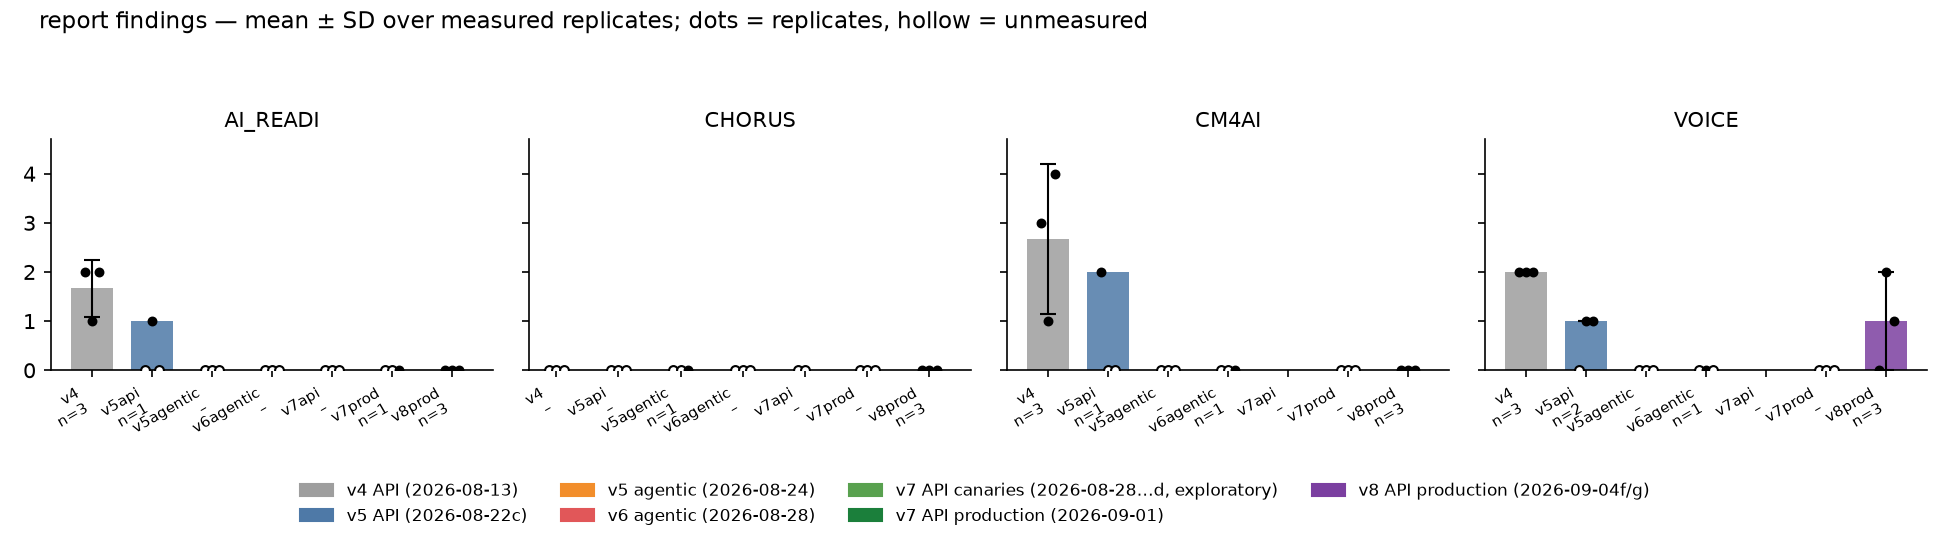
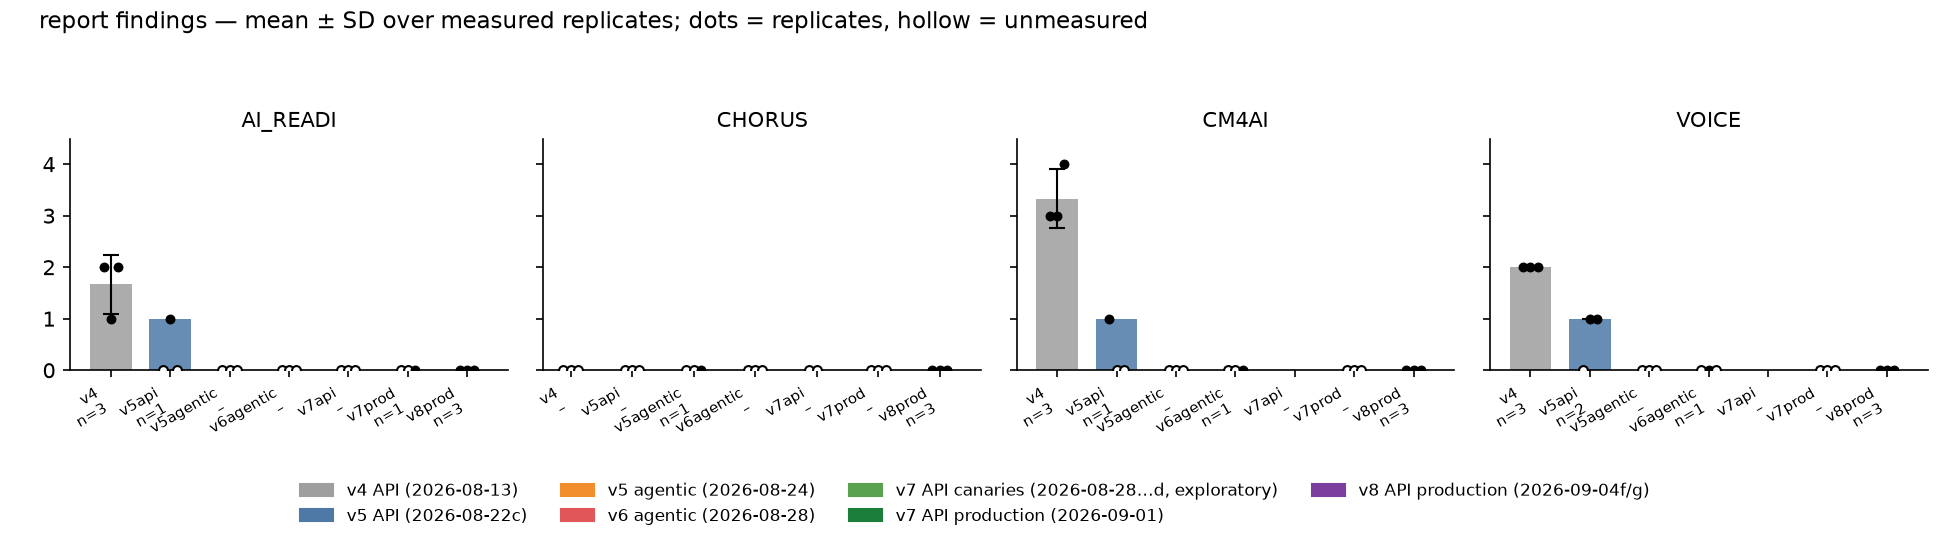
#902 #831 receipt coverage is an arm number with its denominator, and the wrong-chunk rate is the marker protocol's
`scripts/arm_comparison.py` printed the count of leaves without a receipt
and no denominator, which compares nothing: the receiptable denominator
runs from 142 to 508 leaves inside one arm. It now carries the
denominator, the #807 never/added split and the snippet total as rows of
their own, and writes a pooled per-arm section — pooled, not a mean of
per-record rates, which would weight a 142-leaf record like a 508-leaf
one.

Measured, over the registered arms:

| arm | receiptable | with a receipt | never receipted | added after | not in the chunk cited |
|---|---|---|---|---|---|
| v6 agentic (12) | 5,846 | 48.2% | – | – | 0 of 3,400 |
| v7 API canaries (5) | 1,762 | 34.4% | 48.4% | 17.1% | 33 of 859 = 3.8% |
| v7 API production (12) | 3,905 | 35.5% | 56.8% | 7.8% | 132 of 1,733 = 7.6% |
| v8 API production (12) | 4,094 | 56.4% | 42.4% | 1.2% | 153 of 2,556 = 6.0% |

So the v7 degree limit eight of twelve production reviewers read as a
rule-15 violation (#902) is real at arm level, and v8 recovers past v6.
The gap is overwhelmingly never-receipted rather than added by
reconciliation or repair after the receipt, which is the half #742 says
has no receipt route at all — the reading #831 asks for and the opposite
of the mixture hypothesis in its body.

Attribution (#831, #873): the rate is 0 of 3,400 snippets on the v6
agentic arm, which names chunk ids from the manifest it read, against
3.8%, 7.6% and 6.0% on the three API arms, which infer them from `[cNNN]`
[…]

diff --git a/scripts/arm_comparison.py b/scripts/arm_comparison.py
@@ -162,13 +162,35 @@ METRICS: dict[str, tuple[str, str, bool, str]] = {
                    "receipts (#708): mismatched + unchecked snippets; same caveat"),
     "wrongchunk": ("snippets not in the chunk cited", "record", True,
                    "receipts (#763): verbatim in the bundle but not in the chunk cited — "
-                   "attribution precision, reported not gated; 3.8% on the five v7 API canaries (33/859)"),
+                   "attribution precision, reported not gated. Read it against `snippets "
+                   "checked` on the row below, never as a bare count; the pooled rates "
+                   "are in the receipt-coverage section"),
+    "snippets": ("snippets checked", "record", False,
+                 "receipts (#708): the denominator for `snippets not in the chunk cited` "
+                 "and for unverified — the receipt's own snippet count, which is a "
+                 "property of how much the model quoted, not of the record"),
     "leaves": ("populated leaves (full record)", "record", False,
                "count of populated leaf values in the full record (receipts.populated_leaves); "
                "informational — the v6 plan's prediction 5 is that it does not fall"),
     "noreceipt": ("slots without a receipt", "record", True,
                   "receipts (#708): receiptable populated leaves with no receipt; exempt "
-                  "slots (runner-set, minted, commentary) are outside the denominator"),
+                  "slots (runner-set, minted, commentary) are outside the denominator. "
+                  "`receiptable` on the row below is that denominator, so coverage degree "
+                  "is readable here rather than inferable (#902)"),
+    "receiptable": ("receiptable slots (denominator)", "record", False,
+                    "receipts (#708): populated leaves that are not exempt — the "
+                    "denominator every receipt count on these rows shares. It varies "
+                    "two- to three-fold between records of one arm, so a bare "
+                    "without-a-receipt count compares nothing (#902)"),
+    "neverreceipted": ("of those, never receipted", "record", True,
+                       "receipts (#807): the receiptless leaf resolved in the phase-1 "
+                       "snapshot, so the model never receipted it. Needs that snapshot — "
+                       "the API path writes one and the agentic path does not, so an "
+                       "agentic arm is – here, not 0 (#899)"),
+    "addedafter": ("of those, added after the receipt", "record", True,
+                   "receipts (#807): the receiptless leaf is absent from the phase-1 "
+                   "snapshot, so reconciliation or repair added it after the receipt was "
+                   "written and no receipt route existed (#742). Same snapshot caveat"),
     "gc": ("GC label variants (reported)", "live", True,
            "reported-only; counted against the manifest naming declaration decided "
            "2026-08-22, so anachronistic for the v4 arm and same-day for 22c. For VOICE "
@@ -182,6 +204,51 @@ EXCLUDED_INVALID: dict[tuple[str, str], None] = {}   # (label, project) skipped 
 
 def load(path: Path) -> dict[str, Any]:
     return yaml.safe_load(path.read_text(encoding="utf-8")) or {}
+
+
+RECEIPT_KEYS = ("unreviewed", "unverified", "wrongchunk", "snippets", "noreceipt",
+                "receiptable", "withreceipt", "neverreceipted", "addedafter")
+
+
+def receipt_metrics(rcp: dict[str, Any]) -> dict[str, Any]:
+    """The receipt row values for one record, or all None where the receipt
+    was not checked — an unchecked receipt is not a measurement of zero."""
+    if not rcp.get("checked"):
+        return {k: None for k in RECEIPT_KEYS}
+    from data_sheets_schema.canary import receipt_floors
+    floors = receipt_floors(rcp)
+    sn = rcp.get("snippets") or {}
+    sl = rcp.get("slots") or {}
+    receiptable = sl.get("receiptable")
+    with_receipt = sl.get("with_receipt")
+    # The stored `without_receipt` list is capped at 50 entries with the
+    # remainder in `without_receipt_truncated`; #831's body divided by the
+    # capped list and reported coverage at twice its real level. The two
+    # integers are the definition, so subtract them where the block carries
+    # them (every block on disk today, and they agree with the list
+    # arithmetic on all of them) and keep the list only for a block that
+    # predates the counters.
+    if receiptable is not None and with_receipt is not None:
+        noreceipt = int(receiptable) - int(with_receipt)
+    else:
+        noreceipt = (len(sl.get("without_receipt") or [])
+                     + int(sl.get("without_receipt_truncated") or 0))
+    # `never_receipted`/`added_after_receipt` are None, not 0, on a run with
+    # no phase-1 snapshot to resolve the path against (#899) — the agentic
+    # path writes none. A 0 would read as "reconciliation added nothing after
+    # the receipt", which is not what an absent snapshot says.
+    never = sl.get("never_receipted")
+    added = sl.get("added_after_receipt")
+    return {"unreviewed": floors["chunks unreviewed"],
+            "unverified": floors["snippets unverified"],
+            "wrongchunk": int(sn.get("adjacent") or 0) + int(sn.get("elsewhere") or 0)
+            + int(sn.get("spans_boundary") or 0),
+            "snippets": int(sn.get("total") or 0),
+            "noreceipt": noreceipt,
+            "receiptable": int(receiptable) if receiptable is not None else None,
+            "withreceipt": int(with_receipt) if with_receipt is not None else None,
+            "neverreceipted": int(never) if never is not None else None,
+            "addedafter": int(added) if added is not None else None}
 
 
 def run_metrics(label: str, project: str) -> dict[str, Any] | None:
@@ -214,18 +281,7 @@ def run_metrics(label: str, project: str) -> dict[str, Any] | None:
                 return sum(v.values()) if isinstance(v, dict) else int(v)
         return None
 
-    rcp = rec.get("receipts") or {}
-    if rcp.get("checked"):
-        from data_sheets_schema.canary import receipt_floors
-        floors = receipt_floors(rcp)
-        sn = rcp.get("snippets") or {}
-        receipt_vals = {"unreviewed": floors["chunks unreviewed"],
-                        "unverified": floors["snippets unverified"],
-                        "wrongchunk": int(sn.get("adjacent") or 0) + int(sn.get("elsewhere") or 0) + int(sn.get("spans_boundary") or 0),
-                        "noreceipt": len((rcp.get("slots") or {}).get("without_receipt") or [])
-                        + int((rcp.get("slots") or {}).get("without_receipt_truncated") or 0)}
-    else:
-        receipt_vals = {"unreviewed": None, "unverified": None, "wrongchunk": None, "noreceipt": None}
+    receipt_vals = receipt_metrics(rec.get("receipts") or {})
     from data_sheets_schema.receipts import populated_leaves
     leaves = len(populated_leaves(load(full)))
     return {
@@ -342,6 +398,74 @@ def worst(reps: list[dict[str, Any]], metric: str) -> str:
     return str(w)
 
 
+def pooled_receipts(reps: list[dict[str, Any]]) -> dict[str, Any]:
+    """Receipt totals for an arm, pooled over its records.
+
+    Pooled, not a mean of per-record rates: the receiptable denominator varies
+    two- to three-fold within one arm (#902), and a mean of ratios would weight
+    a 142-slot record like a 508-slot one. A key is summed only over the
+    records that carry it, and stays None when none does — the never/added
+    split needs a phase-1 snapshot the agentic path never wrote (#899), and 0
+    there would assert something the arm did not measure.
+    """
+    out: dict[str, Any] = {"records": sum(1 for r in reps if r.get("receiptable") is not None)}
+    for key in ("receiptable", "withreceipt", "neverreceipted", "addedafter",
+                "snippets", "wrongchunk", "unverified", "unreviewed"):
+        vals = [r[key] for r in reps if r.get(key) is not None]
+        out[key] = sum(vals) if vals else None
+    return out
+
+
+def _rate(num: Any, den: Any) -> str:
+    """`n/d = p%`, or `–` where either side was not measured. A zero
+    denominator is not 0% — it is nothing to divide."""
+    if num is None or not den:
+        return "–"
+    return f"{num}/{den} = {100 * num / den:.1f}%"
+
+
+def receipt_section(data) -> list[str]:
+    lines = ["## Receipt coverage and attribution, pooled per arm (#831, #902)", "",
+             "| arm | records | receiptable slots | with a receipt | never receipted | "
+             "added after the receipt | snippets | not in the chunk cited |",
+             "|---|---|---|---|---|---|---|---|"]
+    for key, disp, _pfx, _rt, _role in ARMS:
+        reps = [r for p in PROJECTS for r in data[key][p]]
+        t = pooled_receipts(reps)
+        if not t["records"]:
+            continue
+        lines.append(
+            f"| {disp} | {t['records']} | {t['receiptable']} | "
+            f"{_rate(t['withreceipt'], t['receiptable'])} | "
+            f"{_rate(t['neverreceipted'], t['receiptable'])} | "
+            f"{_rate(t['addedafter'], t['receiptable'])} | "
+            f"{t['snippets'] if t['snippets'] is not None else '–'} | "
+            f"{_rate(t['wrongchunk'], t['snippets'])} |")
+    lines += ["",
+              "Coverage **degree**, which the twelve v7 production reviewers read as a "
+              "rule-15 violation on eight records and which is a property of the arm "
+              "rather than of any one record (#902). The denominator is receiptable "
+              "populated leaves: an entry receipt covers many leaves at once, so this is "
+              "the strict leaf reading, and the exempt slots (runner-set, minted on an "
+              "identifier the record carries, commentary) are outside it. Zero "
+              "`not_in_bundle` verdicts were returned anywhere on the v7 production arm, "
+              "so what these rows measure is how much of a record the receipt reaches, "
+              "not whether its values are supported.", "",
+              "The never/added split (#807) says which half of the gap the protocol could "
+              "have closed: a leaf that resolves in the phase-1 snapshot was there to be "
+              "receipted and was not, while one the snapshot does not carry was added by "
+              "reconciliation or repair, which have no receipt route at all (#742). It "
+              "needs that snapshot, so an agentic arm shows `–` and not 0.", "",
+              "`not in the chunk cited` is attribution precision, reported and never "
+              "gated (#763): the snippet is verbatim in the bundle, in a chunk other than "
+              "the one the receipt names. It is an API-path number — the agentic protocol "
+              "names chunk ids from the manifest it read, the API path infers them from "
+              "`[cNNN]` marker lines in the cached bundle, and the marker side was checked "
+              "byte-for-byte on the CM4AI canary and found correct (#873), so what the "
+              "rate measures is the model mis-citing, usually one chunk early.", ""]
+    return lines
+
+
 def write_markdown(data, scores) -> None:
     lines = ["# Cross-arm comparison (regenerated)", "",
              f"Generated by `scripts/arm_comparison.py` from the provenance records under "
@@ -391,6 +515,8 @@ def write_markdown(data, scores) -> None:
               "better summary. ᵘ = unmeasured — the report-claims checker parsed zero "
               "claims (#684); unmeasured values are excluded from the mean and n, and a "
               "cell with no measured replicate shows only its raw values.", ""]
+
+    lines += receipt_section(data)
 
     lines += ["## Per-metric caveats (attached, not footnoted elsewhere)", ""]
     for mk, (disp, src, _hiw, cav) in METRICS.items():

diff --git a/notes/arm_comparison.md b/notes/arm_comparison.md
@@ -28,9 +28,9 @@ Arms: **v4 API (2026-08-13)** — `2026-08-13_claude-opus-5-api-generic-v4_rep{1
 | undeclared prefixes | CHORUS | 76.0 ± 131.6 [228,0,0] worst 228 | 0.0 ± 0.0 [0,0,0] | 0.0 ± 0.0 [0,0,0] | 0.0 ± 0.0 [0,0,0] | 0.0 ± 0.0 [0,0] | 0.0 ± 0.0 [0,0,0] | 0.0 ± 0.0 [0,0,0] |
 | undeclared prefixes | CM4AI | 42.3 ± 43.0 [0,86,41] worst 86 | 0.0 ± 0.0 [0,0,0] | 0.0 ± 0.0 [0,0,0] | 0.0 ± 0.0 [0,0,0] | – | 0.0 ± 0.0 [0,0,0] | 0.0 ± 0.0 [0,0,0] |
 | undeclared prefixes | VOICE | 0.0 ± 0.0 [0,0,0] worst 0 | 0.0 ± 0.0 [0,0,0] | 0.0 ± 0.0 [0,0,0] | 0.0 ± 0.0 [0,0,0] | – | 0.0 ± 0.0 [0,0,0] | 0.0 ± 0.0 [0,0,0] |
-| British spellings | AI_READI | 176.7 ± 46.6 [225,132,173] worst 225 | 25.3 ± 22.5 [33,43,0] | 1.3 ± 2.3 [4,0,0] | 2.7 ± 3.8 [0,1,7] | 32.3 ± 12.0 [33,20,44] | 45.0 ± 7.0 [45,38,52] | 0.0 ± 0.0 [0,0,0] |
+| British spellings | AI_READI | 176.7 ± 46.6 [225,132,173] worst 225 | 25.3 ± 22.5 [33,43,0] | 1.3 ± 2.3 [4,0,0] | 2.7 ± 3.8 [0,1,7] | 32.7 ± 12.5 [33,20,45] | 45.0 ± 7.0 [45,38,52] | 0.0 ± 0.0 [0,0,0] |
 | British spellings | CHORUS | 17.0 ± 5.2 [20,20,11] worst 20 | 0.0 ± 0.0 [0,0,0] | 0.0 ± 0.0 [0,0,0] | 0.0 ± 0.0 [0,0,0] | 0.0 ± 0.0 [0,0] | 0.0 ± 0.0 [0,0,0] | 0.0 ± 0.0 [0,0,0] |
-| British spellings | CM4AI | 35.7 ± 53.1 [97,6,4] worst 97 | 1.3 ± 2.3 [4,0,0] | 1.3 ± 2.3 [0,4,0] | 1.3 ± 2.3 [0,4,0] | – | 0.7 ± 1.2 [0,0,2] | 0.0 ± 0.0 [0,0,0] |
+| British spellings | CM4AI | 35.7 ± 53.1 [97,6,4] worst 97 | 1.3 ± 2.3 [4,0,0] | 1.3 ± 2.3 [0,4,0] | 2.0 ± 2.0 [0,4,2] | – | 0.7 ± 1.2 [0,0,2] | 0.0 ± 0.0 [0,0,0] |
 | British spellings | VOICE | 70.3 ± 18.6 [49,79,83] worst 83 | 2.7 ± 3.1 [2,0,6] | 2.3 ± 2.1 [3,4,0] | 11.7 ± 20.2 [0,35,0] | – | 0.7 ± 1.2 [0,0,2] | 1.3 ± 1.2 [2,0,2] |
 | pair errors | AI_READI | 8.0 ± 2.0 [10,8,6] worst 10 | 8.7 ± 8.3 [2,18,6] | 0.0 ± 0.0 [0,0,0] | 0.0 ± 0.0 [0,0,0] | 0.0 ± 0.0 [0,0,0] | 0.0 ± 0.0 [0,0,0] | 0.0 ± 0.0 [0,0,0] |
 | pair errors | CHORUS | 3.0 ± 3.0 [6,0,3] worst 6 | 1.0 ± 1.0 [1,0,2] | 0.0 ± 0.0 [0,0,0] | 0.0 ± 0.0 [0,0,0] | 0.0 ± 0.0 [0,0] | 0.0 ± 0.0 [0,0,0] | 0.0 ± 0.0 [0,0,0] |
@@ -38,8 +38,8 @@ Arms: **v4 API (2026-08-13)** — `2026-08-13_claude-opus-5-api-generic-v4_rep{1
 | pair errors | VOICE | 6.3 ± 2.5 [9,4,6] worst 9 | 5.7 ± 1.2 [7,5,5] | 0.0 ± 0.0 [0,0,0] | 0.0 ± 0.0 [0,0,0] | – | 0.0 ± 0.0 [0,0,0] | 0.0 ± 0.0 [0,0,0] |
 | report findings | AI_READI | 1.7 ± 0.6 [2,1,2] worst 2 | 1.0 [0ᵘ,1,0ᵘ] (n=1) | – [0ᵘ,0ᵘ,0ᵘ] | – [0ᵘ,0ᵘ,0ᵘ] | – [0ᵘ,0ᵘ,0ᵘ] | 0.0 [0ᵘ,0ᵘ,0] (n=1) | 0.0 ± 0.0 [0,0,0] |
 | report findings | CHORUS | – [0ᵘ,0ᵘ,0ᵘ] | – [0ᵘ,0ᵘ,0ᵘ] | 0.0 [0ᵘ,0ᵘ,0] (n=1) | – [0ᵘ,0ᵘ,0ᵘ] | – [0ᵘ,0ᵘ] | – [0ᵘ,0ᵘ,0ᵘ] | 0.0 ± 0.0 [0,0,0] |
-| report findings | CM4AI | 2.7 ± 1.5 [3,1,4] worst 4 | 2.0 [2,0ᵘ,0ᵘ] (n=1) | – [0ᵘ,0ᵘ,0ᵘ] | 0.0 [0ᵘ,0ᵘ,0] (n=1) | – | – [0ᵘ,0ᵘ,0ᵘ] | 0.0 ± 0.0 [0,0,0] |
-| report findings | VOICE | 2.0 ± 0.0 [2,2,2] worst 2 | 1.0 ± 0.0 [0ᵘ,1,1] (n=2) | – [0ᵘ,0ᵘ,0ᵘ] | 0.0 [0ᵘ,0,0ᵘ] (n=1) | – | – [0ᵘ,0ᵘ,0ᵘ] | 1.0 ± 1.0 [0,2,1] |
+| report findings | CM4AI | 3.3 ± 0.6 [3,3,4] worst 4 | 1.0 [1,0ᵘ,0ᵘ] (n=1) | – [0ᵘ,0ᵘ,0ᵘ] | 0.0 [0ᵘ,0ᵘ,0] (n=1) | – | – [0ᵘ,0ᵘ,0ᵘ] | 0.0 ± 0.0 [0,0,0] |
+| report findings | VOICE | 2.0 ± 0.0 [2,2,2] worst 2 | 1.0 ± 0.0 [0ᵘ,1,1] (n=2) | – [0ᵘ,0ᵘ,0ᵘ] | 0.0 [0ᵘ,0,0ᵘ] (n=1) | – | – [0ᵘ,0ᵘ,0ᵘ] | 0.0 ± 0.0 [0,0,0] |
 | minted fragments (reported) | AI_READI | 14.7 ± 2.1 [17,14,13] worst 17 | 9.0 ± 7.8 [0,13,14] | 10.3 ± 6.7 [16,3,12] | 10.7 ± 2.1 [10,13,9] | 5.7 ± 6.4 [1,3,13] | 4.0 ± 6.9 [0,0,12] | 18.0 ± 4.6 [19,22,13] |
 | minted fragments (reported) | CHORUS | 0.0 ± 0.0 [0,0,0] worst 0 | 0.0 ± 0.0 [0,0,0] | 0.0 ± 0.0 [0,0,0] | 0.0 ± 0.0 [0,0,0] | 0.0 ± 0.0 [0,0] | 0.0 ± 0.0 [0,0,0] | 0.0 ± 0.0 [0,0,0] |
 | minted fragments (reported) | CM4AI | 4.0 ± 6.9 [12,0,0] worst 12 | 13.7 ± 3.2 [15,10,16] | 49.3 ± 6.7 [42,55,51] | 39.0 ± 20.8 [51,15,51] | – | 14.7 ± 4.0 [17,10,17] | 23.3 ± 6.4 [16,26,28] |
@@ -56,20 +56,51 @@ Arms: **v4 API (2026-08-13)** — `2026-08-13_claude-opus-5-api-generic-v4_rep{1
 | snippets not in the chunk cited | CHORUS | – [–,–,–] | – [–,–,–] | – [–,–,–] | 0.0 ± 0.0 [0,0,0] | 2.0 ± 0.0 [2,2] | 1.0 ± 0.0 [1,1,1] | 0.7 ± 0.6 [0,1,1] |
 | snippets not in the chunk cited | CM4AI | – [–,–,–] | – [–,–,–] | – [–,–,–] | 0.0 ± 0.0 [0,0,0] | – | 24.0 ± 15.1 [26,38,8] | 32.7 ± 14.5 [18,33,47] |
 | snippets not in the chunk cited | VOICE | – [–,–,–] | – [–,–,–] | – [–,–,–] | 0.0 ± 0.0 [0,0,0] | – | 8.3 ± 4.0 [9,4,12] | 8.3 ± 3.1 [5,11,9] |
+| snippets checked | AI_READI | – [–,–,–] | – [–,–,–] | – [–,–,–] | 441.0 ± 128.0 [580,328,415] | 217.3 ± 69.5 [286,147,219] | 221.0 ± 19.2 [243,212,208] | 334.7 ± 18.9 [351,339,314] |
+| snippets checked | CHORUS | – [–,–,–] | – [–,–,–] | – [–,–,–] | 107.7 ± 1.5 [106,109,108] | 103.5 ± 7.8 [109,98] | 96.3 ± 13.9 [81,100,108] | 95.3 ± 19.6 [79,90,117] |
+| snippets checked | CM4AI | – [–,–,–] | – [–,–,–] | – [–,–,–] | 336.0 ± 27.9 [367,328,313] | – | 110.7 ± 27.4 [116,135,81] | 181.3 ± 6.4 [174,186,184] |
+| snippets checked | VOICE | – [–,–,–] | – [–,–,–] | – [–,–,–] | 248.7 ± 43.1 [199,271,276] | – | 149.7 ± 11.2 [154,137,158] | 240.7 ± 8.7 [243,248,231] |
 | populated leaves (full record) | AI_READI | 642.3 ± 98.9 [748,552,627] worst 748 | 674.3 ± 123.9 [594,817,612] | 641.3 ± 38.1 [649,675,600] | 603.3 ± 56.8 [667,558,585] | 521.7 ± 141.6 [446,434,685] | 493.3 ± 62.4 [562,478,440] | 499.7 ± 43.9 [525,525,449] |
 | populated leaves (full record) | CHORUS | 265.0 ± 68.7 [342,210,243] worst 342 | 241.7 ± 48.3 [220,208,297] | 287.3 ± 37.9 [299,245,318] | 227.7 ± 46.4 [197,281,205] | 202.0 ± 9.9 [209,195] | 192.3 ± 21.8 [199,168,210] | 254.7 ± 21.7 [235,278,251] |
 | populated leaves (full record) | CM4AI | 555.0 ± 127.4 [415,664,586] worst 664 | 444.7 ± 57.3 [489,465,380] | 928.0 ± 84.2 [835,999,950] | 706.0 ± 190.5 [765,493,860] | – | 432.0 ± 65.0 [458,480,358] | 458.0 ± 31.3 [422,473,479] |
 | populated leaves (full record) | VOICE | 567.3 ± 36.5 [577,598,527] worst 598 | 450.3 ± 62.1 [417,522,412] | 542.7 ± 93.5 [545,448,635] | 545.7 ± 79.5 [617,460,560] | – | 373.7 ± 67.0 [306,375,440] | 371.7 ± 68.6 [386,297,432] |
-| slots without a receipt | AI_READI | – [–,–,–] | – [–,–,–] | – [–,–,–] | 312.0 ± 20.1 [291,314,331] | 310.7 ± 146.0 [234,219,479] | 264.3 ± 72.0 [347,231,215] | 198.3 ± 59.5 [200,257,138] |
-| slots without a receipt | CHORUS | – [–,–,–] | – [–,–,–] | – [–,–,–] | 82.7 ± 23.2 [104,58,86] | 112.5 ± 0.7 [112,113] | 105.7 ± 10.1 [111,94,112] | 139.3 ± 23.2 [133,165,120] |
+| slots without a receipt | AI_READI | – [–,–,–] | – [–,–,–] | – [–,–,–] | 312.0 ± 20.1 [291,314,331] | 310.7 ± 146.0 [234,219,479] | 261.3 ± 66.9 [338,231,215] | 198.3 ± 59.5 [200,257,138] |
+| slots without a receipt | CHORUS | – [–,–,–] | – [–,–,–] | – [–,–,–] | 82.7 ± 23.2 [104,58,86] | 111.5 ± 0.7 [111,112] | 105.3 ± 9.8 [111,94,111] | 139.0 ± 23.3 [132,165,120] |
 | slots without a receipt | CM4AI | – [–,–,–] | – [–,–,–] | – [–,–,–] | 270.0 ± 234.6 [508,263,39] | – | 253.0 ± 39.0 [288,260,211] | 123.3 ± 35.4 [95,112,163] |
 | slots without a receipt | VOICE | – [–,–,–] | – [–,–,–] | – [–,–,–] | 344.0 ± 99.7 [447,248,337] | – | 220.3 ± 46.5 [167,242,252] | 134.0 ± 24.2 [120,120,162] |
+| receiptable slots (denominator) | AI_READI | – [–,–,–] | – [–,–,–] | – [–,–,–] | 580.7 ± 52.8 [639,536,567] | 474.7 ± 139.7 [394,394,636] | 439.3 ± 58.5 [498,439,381] | 429.7 ± 46.3 [480,420,389] |
+| receiptable slots (denominator) | CHORUS | – [–,–,–] | – [–,–,–] | – [–,–,–] | 188.7 ± 6.1 [190,194,182] | 169.0 ± 4.2 [172,166] | 163.0 ± 18.7 [169,142,178] | 210.7 ± 32.9 [186,248,198] |
+| receiptable slots (denominator) | CM4AI | – [–,–,–] | – [–,–,–] | – [–,–,–] | 662.7 ± 165.2 [753,472,763] | – | 367.7 ± 84.7 [420,413,270] | 395.7 ± 25.7 [374,424,389] |
+| receiptable slots (denominator) | VOICE | – [–,–,–] | – [–,–,–] | – [–,–,–] | 516.7 ± 78.5 [587,432,531] | – | 331.7 ± 40.9 [288,338,369] | 328.7 ± 61.8 [343,261,382] |
+| of those, never receipted | AI_READI | – [–,–,–] | – [–,–,–] | – [–,–,–] | – [–,–,–] | 214.7 ± 35.1 [212,181,251] | 237.0 ± 79.9 [321,228,162] | 193.0 ± 56.5 [192,250,137] |
+| of those, never receipted | CHORUS | – [–,–,–] | – [–,–,–] | – [–,–,–] | – [–,–,–] | 104.5 ± 10.6 [97,112] | 95.3 ± 13.5 [95,82,109] | 134.0 ± 20.4 [127,157,118] |
+| of those, never receipted | CM4AI | – [–,–,–] | – [–,–,–] | – [–,–,–] | – [–,–,–] | – | 234.0 ± 33.5 [259,247,196] | 119.7 ± 31.4 [95,109,155] |
+| of those, never receipted | VOICE | – [–,–,–] | – [–,–,–] | – [–,–,–] | – [–,–,–] | – | 172.7 ± 30.0 [164,206,148] | 131.7 ± 23.8 [116,120,159] |
+| of those, added after the receipt | AI_READI | – [–,–,–] | – [–,–,–] | – [–,–,–] | – [–,–,–] | 96.0 ± 114.6 [22,38,228] | 24.3 ± 25.8 [17,3,53] | 5.3 ± 3.8 [8,7,1] |
+| of those, added after the receipt | CHORUS | – [–,–,–] | – [–,–,–] | – [–,–,–] | – [–,–,–] | 7.0 ± 9.9 [14,0] | 10.0 ± 7.2 [16,12,2] | 5.0 ± 3.0 [5,8,2] |
+| of those, added after the receipt | CM4AI | – [–,–,–] | – [–,–,–] | – [–,–,–] | – [–,–,–] | – | 19.0 ± 8.7 [29,13,15] | 3.7 ± 4.0 [0,3,8] |
+| of those, added after the receipt | VOICE | – [–,–,–] | – [–,–,–] | – [–,–,–] | – [–,–,–] | – | 47.7 ± 51.5 [3,36,104] | 2.3 ± 2.1 [4,0,3] |
 | GC label variants (reported) | AI_READI | 0.0 ± 0.0 [0,0,0] worst 0 | 0.3 ± 0.6 [1,0,0] | 0.0 ± 0.0 [0,0,0] | 0.7 ± 1.2 [2,0,0] | 0.0 ± 0.0 [0,0,0] | 0.7 ± 1.2 [0,2,0] | 0.0 ± 0.0 [0,0,0] |
 | GC label variants (reported) | CHORUS | 0.0 ± 0.0 [0,0,0] worst 0 | 0.0 ± 0.0 [0,0,0] | 0.0 ± 0.0 [0,0,0] | 0.0 ± 0.0 [0,0,0] | 0.0 ± 0.0 [0,0] | 0.0 ± 0.0 [0,0,0] | 0.0 ± 0.0 [0,0,0] |
 | GC label variants (reported) | CM4AI | 0.0 ± 0.0 [0,0,0] worst 0 | 0.0 ± 0.0 [0,0,0] | 0.0 ± 0.0 [0,0,0] | 0.0 ± 0.0 [0,0,0] | – | 0.0 ± 0.0 [0,0,0] | 0.0 ± 0.0 [0,0,0] |
 | GC label variants (reported) | VOICE | 59.0 ± 3.5 [57,57,63] worst 63 | 65.7 ± 11.0 [53,71,73] | 36.7 ± 5.8 [40,40,30] | 52.7 ± 21.9 [60,70,28] | – | 48.3 ± 7.6 [55,50,40] | 51.3 ± 11.1 [41,50,63] |
 
 Cells are mean ± sample SD over the *measured* replicates, with every replicate value in brackets; n is 3 unless stated. The baseline arm adds its per-project worst, the value the canary gate holds runs against. Read the SD as a spread, not a confidence interval: with n = 3 and one outlier (e.g. [3,14,130]) the SD is that outlier, and the bracketed values are the better summary. ᵘ = unmeasured — the report-claims checker parsed zero claims (#684); unmeasured values are excluded from the mean and n, and a cell with no measured replicate shows only its raw values.
+
+## Receipt coverage and attribution, pooled per arm (#831, #902)
+
+| arm | records | receiptable slots | with a receipt | never receipted | added after the receipt | snippets | not in the chunk cited |
+|---|---|---|---|---|---|---|---|
+| v6 agentic (2026-08-28) | 12 | 5846 | 2820/5846 = 48.2% | – | – | 3400 | 0/3400 = 0.0% |
+| v7 API canaries (2026-08-28…d, exploratory) | 5 | 1762 | 607/1762 = 34.4% | 853/1762 = 48.4% | 302/1762 = 17.1% | 859 | 33/859 = 3.8% |
+| v7 API production (2026-09-01) | 12 | 3905 | 1385/3905 = 35.5% | 2217/3905 = 56.8% | 303/3905 = 7.8% | 1733 | 132/1733 = 7.6% |
+| v8 API production (2026-09-04f/g) | 12 | 4094 | 2310/4094 = 56.4% | 1735/4094 = 42.4% | 49/4094 = 1.2% | 2556 | 153/2556 = 6.0% |
+
+Coverage **degree**, which the twelve v7 production reviewers read as a rule-15 violation on eight records and which is a property of the arm rather than of any one record (#902). The denominator is receiptable populated leaves: an entry receipt covers many leaves at once, so this is the strict leaf reading, and the exempt slots (runner-set, minted on an identifier the record carries, commentary) are outside it. Zero `not_in_bundle` verdicts were returned anywhere on the v7 production arm, so what these rows measure is how much of a record the receipt reaches, not whether its values are supported.
+
+The never/added split (#807) says which half of the gap the protocol could have closed: a leaf that resolves in the phase-1 snapshot was there to be receipted and was not, while one the snapshot does not carry was added by reconciliation or repair, which have no receipt route at all (#742). It needs that snapshot, so an agentic arm shows `–` and not 0.
+
+`not in the chunk cited` is attribution precision, reported and never gated (#763): the snippet is verbatim in the bundle, in a chunk other than the one the receipt names. It is an API-path number — the agentic protocol names chunk ids from the manifest it read, the API path infers them from `[cNNN]` marker lines in the cached bundle, and the marker side was checked byte-for-byte on the CM4AI canary and found correct (#873), so what the rate measures is the model mis-citing, usually one chunk early.
 
 ## Per-metric caveats (attached, not footnoted elsewhere)
 
@@ -82,9 +113,13 @@ Cells are mean ± sample SD over the *measured* replicates, with every replicate
 - **minted fragments (reported)** — record block. reported-only; every fragment hangs off an attested base wherever ungrounded is 0. Appetite varies 3→130 within one project (#685).
 - **chunks unreviewed** — record block. receipts (#708): manifest chunks with no receipt entry. Only arms whose procedure wrote a coverage receipt carry a value; earlier arms are –, not 0.
 - **snippets unverified** — record block. receipts (#708): mismatched + unchecked snippets; same caveat.
-- **snippets not in the chunk cited** — record block. receipts (#763): verbatim in the bundle but not in the chunk cited — attribution precision, reported not gated; 3.8% on the five v7 API canaries (33/859).
+- **snippets not in the chunk cited** — record block. receipts (#763): verbatim in the bundle but not in the chunk cited — attribution precision, reported not gated. Read it against `snippets checked` on the row below, never as a bare count; the pooled rates are in the receipt-coverage section.
+- **snippets checked** — record block. receipts (#708): the denominator for `snippets not in the chunk cited` and for unverified — the receipt's own snippet count, which is a property of how much the model quoted, not of the record.
 - **populated leaves (full record)** — record block. count of populated leaf values in the full record (receipts.populated_leaves); informational — the v6 plan's prediction 5 is that it does not fall.
-- **slots without a receipt** — record block. receipts (#708): receiptable populated leaves with no receipt; exempt slots (runner-set, minted, commentary) are outside the denominator.
+- **slots without a receipt** — record block. receipts (#708): receiptable populated leaves with no receipt; exempt slots (runner-set, minted, commentary) are outside the denominator. `receiptable` on the row below is that denominator, so coverage degree is readable here rather than inferable (#902).
+- **receiptable slots (denominator)** — record block. receipts (#708): populated leaves that are not exempt — the denominator every receipt count on these rows shares. It varies two- to three-fold between records of one arm, so a bare without-a-receipt count compares nothing (#902).
+- **of those, never receipted** — record block. receipts (#807): the receiptless leaf resolved in the phase-1 snapshot, so the model never receipted it. Needs that snapshot — the API path writes one and the agentic path does not, so an agentic arm is – here, not 0 (#899).
+- **of those, added after the receipt** — record block. receipts (#807): the receiptless leaf is absent from the phase-1 snapshot, so reconciliation or repair added it after the receipt was written and no receipt route existed (#742). Same snapshot caveat.
 - **GC label variants (reported)** — live recompute, current instrument. reported-only; counted against the manifest naming declaration decided 2026-08-22, so anachronistic for the v4 arm and same-day for 22c. For VOICE the count is the dataset's own PhysioNet title, lawful under the proper-noun carve-out (#674).
 
 ## Rubric10-semantic scores (every evaluated replicate; earlier arms have their canonical only)

diff --git a/CLAUDE.md b/CLAUDE.md
@@ -519,6 +519,24 @@ check` reports receipts blocks by instrument and names those behind the
 current one. v9 R8 still tells the model a
 landing-page label "needs a receipt like any other value" — the cost v2
 removes; #1147 rotates that sentence.
+**Coverage degree is a property of the arm** (#902), and the denominator
+is what makes it readable: receiptable populated leaves, which run from
+142 to 508 in one arm, so a bare without-a-receipt count compares
+nothing. Pooled per arm — the table
+`scripts/arm_comparison.py` writes into `notes/arm_comparison.md`, never a
+mean of per-record rates — the v6 agentic arm receipts 2,820 of 5,846
+leaves (48.2%), the v7 API canaries 607 of 1,762 (34.4%), the v7
+production arm 1,385 of 3,905 (35.5%) and the v8 production arm 2,310 of
+4,094 (56.4%): the v7 degree limit that eight of twelve production
+reviewers read as a rule-15 violation is real, and v8 recovers past v6.
+Zero `not_in_bundle` verdicts were returned anywhere on that arm, so what
+this measures is how far the receipt reaches, not whether the values are
+supported. The #807 split says which half of the gap the protocol could
+have closed: never-receipted dominates (56.8% of receiptable leaves on
+v7 production, 42.4% on v8) over leaves reconciliation or repair added
+after the receipt was written, which have no receipt route at all
+(7.8% and 1.2%, #742). It needs the phase-1 snapshot, so an agentic arm
+reports no split rather than a zero.
 Named non-checks: that `nothing_relevant` was true, and that a real snippet
 supports its value. `backfill-checks` writes a `receipts` block only where a
 receipt exists or the record claims one (#726). Every bundle kind a run may declare has a manifest (#725), so
@@ -614,8 +632,15 @@ chunk, unverified snippet, finding, or vacuous receipt (zero snippets over a
 non-empty bundle) is a regression against a floor of 0. A snippet that is
 verbatim in the bundle but in a chunk other than the one cited is
 `adjacent`/`elsewhere` — reported as "snippets in another chunk", never
-gated (#763; ~2% on the v7 API canaries): support holds, attribution
-precision is its own number. When false, the
+gated (#763): support holds, attribution precision is its own number.
+Pooled over an arm it is 3.8% on the five v7 API canaries (33 of 859
+snippets), 7.6% on the v7 production arm (132 of 1,733) and 6.0% on v8
+(153 of 2,556) — against 0 of 3,400 on the v6 agentic arm, which names
+chunk ids from the manifest it read instead of inferring them from the
+`[cNNN]` marker lines the API path inserts. The marker side was checked
+byte-for-byte on the CM4AI canary and sits correctly (#873), so the rate
+is a property of that protocol and of the model reading it, usually one
+chunk early, not of the receipt (#831). When false, the
 block is not a metric for that run: earlier arms and the API arm before v7
 (#710) wrote none, and "no receipt" from them is not a measurement.
 **Duplicate mapping keys** (#1029) are a validation failure read off the

diff --git a/notes/generic_v8_analysis_plan.md b/notes/generic_v8_analysis_plan.md
@@ -1513,8 +1513,39 @@ steps need:
     cannot read, and names those behind the current one (0 today). Not a
     generation-path change.
 
+21. **Receipt coverage degree is an arm number, with its denominator
+    (#902, #831, #873, 2026-09-10).** The receipts block has carried
+    `slots.receiptable` and the #807 never/added split since those
+    revisions, but the cross-arm table printed only the count of leaves
+    without a receipt, which compares nothing: the denominator runs from
+    142 to 508 leaves within one arm. `scripts/arm_comparison.py` now
+    carries the denominator, the split and the snippet total as their own
+    rows, and writes a pooled per-arm section — pooled, not a mean of
+    per-record rates, which would weight a 142-leaf record like a
+    508-leaf one. Measured: the v6 agentic arm receipts 2,820 of 5,846
+    receiptable leaves (48.2%), the v7 API canaries 607 of 1,762 (34.4%),
+    the v7 production arm 1,385 of 3,905 (35.5%) and the v8 production
+    arm 2,310 of 4,094 (56.4%). So the v7 degree limit #902 reports from
+    the reviewers is real at arm level and v8 recovers past v6, and the
+    gap is overwhelmingly never-receipted (56.8% of receiptable leaves on
+    v7 production, 42.4% on v8) rather than added after the receipt
+    (7.8% and 1.2%) — the half the protocol could have closed, not the
+    half #742 says has no receipt route. Attribution: 33 of 859 snippets
+    not in the chunk cited on the v7 canaries (3.8%), 132 of 1,733 on v7
+    production (7.6%), 153 of 2,556 on v8 (6.0%), and 0 of 3,400 on the
+    v6 agentic arm, which names chunk ids from the manifest rather than
+    inferring them from marker lines; with the marker side checked
+    byte-for-byte (#873) the rate is the model mis-citing under the
+    `[cNNN]` protocol, usually one chunk early. Nothing is recomputed and
+    no record moves: this is a reading of blocks already on disk, and not
+    a generation-path change. The regeneration also absorbs the drift the
+    note had accumulated since 2026-09-08 — six rows moved by British
+    instrument v4 (amendment 18), report_claims v4 (#1122) and receipts
+    v2/v3 (amendments 15 and 17), none of them by this change, which
+    reproduces the previous without-a-receipt figures exactly.
+
 Each of 2–5, 7–10, 11 and 12 is a generation-path change (13, 14, 15, 16,
-17 and 20 are not; 15 and 17 are the receipts instrument's revisions and
+17, 20 and 21 are not; 15 and 17 are the receipts instrument's revisions and
 17 classifies both; 18 changes the normaliser's rule table and is a
 generation-path change by that half); per the production rule none of them may land
 between a v8 canary and its fill.
